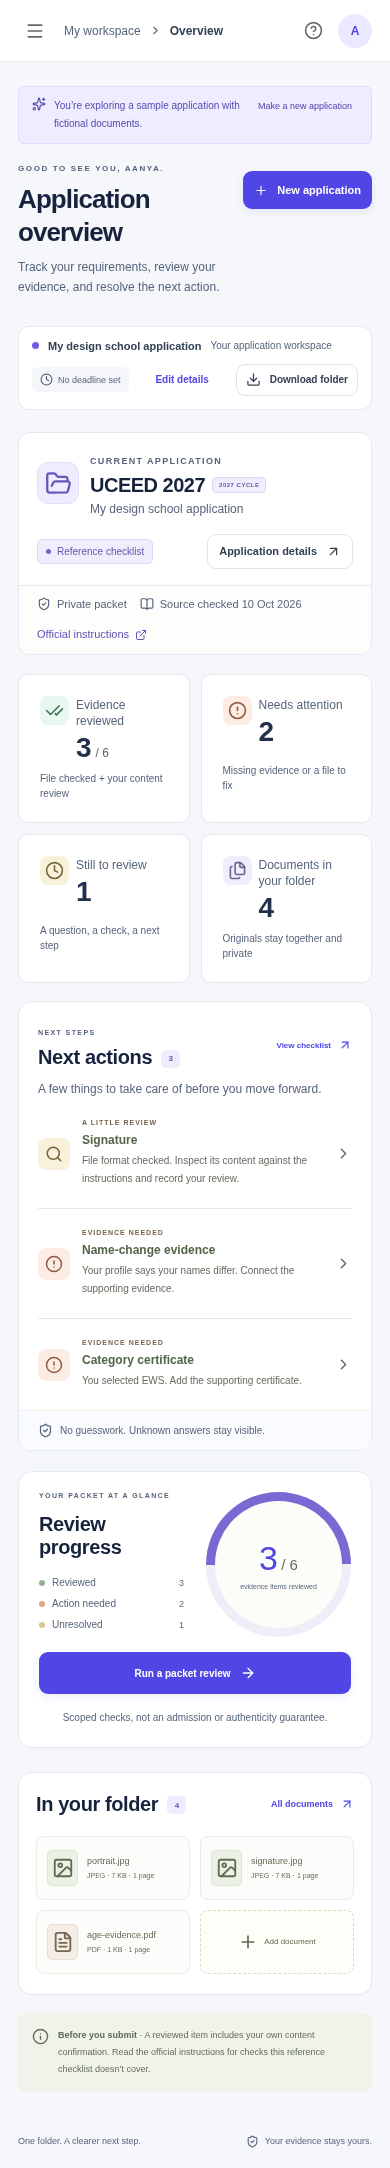
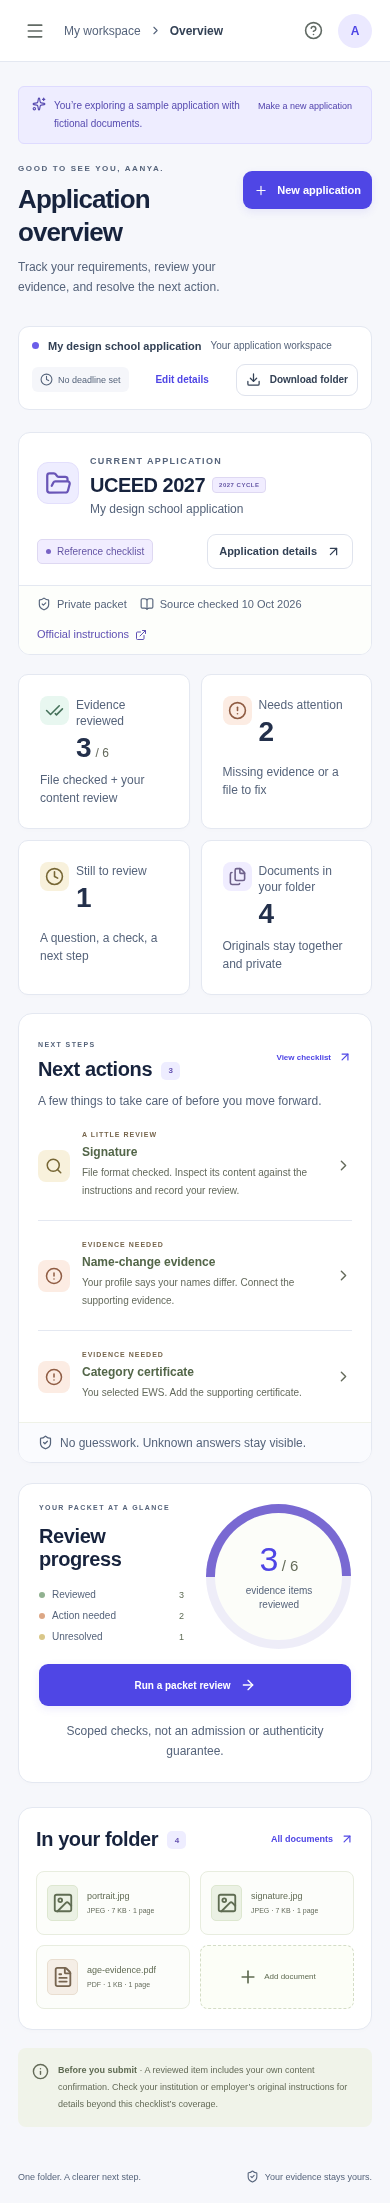
docs: publish local product workflows verification and refreshed previews

diff --git a/docs/engineering/RUNBOOK.md b/docs/engineering/RUNBOOK.md
@@ -5,20 +5,38 @@ Requires Node.js 22.12 or newer. Verified locally with Node 22.22.0. The lockfil
 ## First run
 
 1. Run `npm ci` in the repository root.
-2. Optionally copy `.env.example` to `.env` and set the desired local ports, origin and private data path.
+2. Optionally copy `.env.example` to `.env` for the backend origin and private data path. Keep the default ports, or use the shared shell variables below.
 3. Run `npm run dev`.
 4. Open `http://127.0.0.1:5173`.
 5. Choose **Explore the demo** for an isolated fictional workspace, or create an adults-only development account.
 
-The web client listens on port 5173 and proxies API requests to port 3001. If you change the API port, update the Vite proxy to match. The server binds loopback by default. It does not publish a website to the internet.
+The web client listens on port 5173 and proxies API requests to port 3001. To customize development ports, set `WEB_PORT`, `PORT` and the matching `APP_ORIGIN` in the shell so both processes receive them:
+
+```sh
+PORT=3010 WEB_PORT=5183 APP_ORIGIN=http://127.0.0.1:5183 npm run dev
+```
+
+`server/index.ts` loads `.env` for the backend; shared dev-port overrides must be shell variables. The server binds loopback by default. It does not publish a website to the internet.
 
 ## Review a packet
 
-Create a packet and confirm the application details. Unknown answers remain unresolved. Upload PDFs or JPEGs, wait for inspection, then open a requirement and connect a document and page range. Inspect the original, record your own review note, and save the evidence link. Run a review to save a dated snapshot.
+Choose **New application**, select a college, scholarship, job or custom starter, and add its name, destination, deadline and original instructions. The starter checklist is editable before creation. Importing instructions creates one editable item per nonempty line; it does not infer conditional meanings. Confirm required/optional items, formats, conditions and any size or literal phrase checks against your actual instructions. Use **Edit checklist** to revise it later.
 
-The report distinguishes supported technical checks and applicant content confirmation. Changing a profile, adding a file or changing an evidence link makes an earlier report historical. Running a fresh review creates a new snapshot. A retry with unchanged inputs reuses the existing run.
+The separate UCEED 2027 reference option has conditional profile questions. Confirm those answers or leave them unknown when you need to check them. Unknown answers remain unresolved.
+
+Upload PDFs or JPEGs, wait for inspection, then open a requirement and connect a document and page range. The PDF viewer renders the actual selected original page with pagination and zoom. Inspect it, record your own review note, and save the evidence link. Run a review to save a dated snapshot. Uploading first from an empty document section opens setup and attaches those selected files to the newly created application.
+
+Batch intake reports each file separately. A rejected file does not stop later files from being attempted or remove accepted files. Duplicate bytes return the existing document without a second copy. Retry temporary failures or choose a supported replacement. Intake acceptance and successful inspection are separate states.
+
+The report distinguishes supported technical checks and applicant content confirmation. Changing a profile, file, evidence link, checklist or application details makes an earlier report historical. Changing custom requirements or original instruction notes resets prior content confirmations. A newer evaluator version also marks older snapshots historical. Running a fresh review creates a new snapshot. A retry with unchanged revisions, checklist version and evaluator version reuses the existing run.
 
 Export JSON for machine-readable provenance, or use **Print / PDF** for a printable report. The printable report includes source, version and coverage limits. Exports are private authenticated responses.
+
+**Download folder** exports a ZIP containing exact inspected originals, the current checklist/review manifest and coverage notes. Processing or failed files are excluded and identified in the manifest. The ZIP is a private export of originals; it does not transform files for a specific institution’s upload portal.
+
+Use **Applications** to search, sort, open, archive or restore your applications. Archive preserves documents and history; deletion removes them. Dates are tracked as local calendar deadlines without email or push notifications. Application URLs preserve your current application and section across refresh and browser navigation; server ownership checks still apply.
+
+In **Settings & privacy**, update your display name, change your password using the current password, or sign out other sessions. Password changes revoke previous sessions and rotate the current session/CSRF token. Email verification and password-reset email delivery are not included.
 
 ## Document limits
 
@@ -50,6 +68,8 @@ The development release has no automated backups. SQLite WAL free pages and exte
 
 To serve the built client and API together locally, run `npm run build`, set `APP_ORIGIN=http://127.0.0.1:3001`, then run `npm start` and open that URL. For a custom port, use a matching origin. Node environment variables override values in `.env`.
 
+Browser checks start their own API on port 3102 and web client on port 5180, with a separate temporary data directory. Leave these two ports available; they never reuse the personal server on 3001/5173. Failed checks retain local traces in ignored `test-results/`; CI uploads them for seven days. Fixture account cleanup never targets a personal account.
+
 ## Failure recovery
 
 A server restart requeues interrupted inspections. Failed inspection is visible in the document view and can be retried. An upload retry with identical bytes returns the existing document. An evaluation retry with unchanged input revisions returns the existing run. Stale mutations return a conflict and require current packet state.
@@ -58,4 +78,4 @@ Do not delete the data directory while a server is running. Stop the server befo
 
 ## Current boundaries
 
-The UCEED 2027 reference checklist is not a reviewed complete official pack. No automated authenticity, eligibility, category entitlement, legal identity, portrait-quality or certificate-validity decision exists. Custom instruction ingestion, OCR, managed authentication recovery, payments, institutional access, native apps and all public launch gates remain tracked work.
+The UCEED 2027 reference checklist is not a reviewed complete official pack. Editable starters and mechanical instruction-line import are implemented; automatic semantic rule interpretation is not. No automated authenticity, eligibility, category entitlement, legal identity, portrait-quality or certificate-validity decision exists. OCR, managed authentication recovery, payments, institutional access, native apps and all public launch gates remain tracked work. Hosting is deliberately deferred while the requested runtime is localhost.

diff --git a/README.md b/README.md
@@ -1,8 +1,8 @@
 # JKY-Folder
 
-**Your next chapter. All in one folder.**
+**Application instructions. Supporting documents. A clear next step.**
 
-A working development MVP for reviewing application documents against a scoped requirement checklist. Bring original files together, confirm which requirements apply, link evidence to pages, and save a clear report of missing documents and unresolved checks.
+A working local application for preparing college, scholarship and job document folders. Create an application from an editable starter or your actual instructions, bring original files together, connect evidence to pages, and save a report of missing documents and unresolved checks.
 
 ![JKY-Folder workspace with fictional demo evidence](docs/engineering/screenshots/workspace.png)
 
@@ -19,18 +19,22 @@ Open **http://127.0.0.1:5173** and choose **Explore the demo**. The demo has fic
 
 ## What works
 
-- Account registration, sign-in, private sessions, CSRF protection and account deletion.
-- Separate application packets with persisted profiles and explicit unknown answers.
-- A versioned UCEED 2027 reference checklist with conditional requirements.
-- Private PDF/JPEG uploads, bounded asynchronous inspection, retries and duplicate detection.
-- PDF page-text extraction and original-document downloads after inspection.
+- Account registration, sign-in, display-name updates, password changes, session revocation and account deletion.
+- A redesigned responsive workspace with useful first-use guidance and distinct checklist, document and report sections.
+- An application portfolio with real progress counts, search, sorting, deadlines, archive and restore.
+- College, scholarship, job and custom checklist starters; instruction-line import and editable requirements.
+- Optional items, profile conditions, file formats, custom size limits and literal text checks on linked PDF pages.
+- A versioned UCEED 2027 reference checklist with explicit unknown profile answers.
+- Private PDF/JPEG intake with per-file batch results, bounded asynchronous inspection, retries and duplicate detection.
+- Actual PDF page previews with pagination and zoom, page-text extraction, JPEG previews and private original downloads.
 - Requirement-to-document/page evidence links and clearly labelled personal review notes.
 - Conservative technical checks, missing evidence, unknown applicability and review-needed states.
-- Versioned review snapshots, stale-report notices, JSON exports and printable reports.
-- Responsive desktop/mobile workspace, search, filters, timeline, help and privacy controls.
+- Versioned review snapshots, stale-report notices, JSON exports, printable reports and private ZIP folder downloads.
+- Application URLs that retain the selected section on refresh and support browser Back/Forward.
+- Search across requirements and extracted document text, filters, real account activity, help and privacy controls.
 - Deletion of active documents, extracted pages, links, jobs, reports and account sessions.
 
-**A reviewed item is not a guarantee of authenticity, eligibility or institutional acceptance.** The source pack is a limited reference, not an independently approved complete official checklist. Scanned PDFs require manual review; OCR and automatic certificate judgments are not implemented.
+**A reviewed item is not a guarantee of authenticity, eligibility or institutional acceptance.** Starters are editable organizing suggestions, not official application rules. Instruction import creates one item per nonempty line; you confirm its meaning and conditions. The UCEED pack is a limited reference, not an independently approved complete official checklist. Scanned PDFs require manual review; OCR and automatic certificate judgments are not implemented.
 
 ## Verify the application
 
@@ -40,9 +44,9 @@ npx playwright install chromium
 npm run test:e2e
 ```
 
-The milestone has **24 passing domain/API/worker tests** and **eight passing desktop/mobile browser tests**. Browser checks cover real PDF upload/extraction, evidence review, report export, stale reports, deletion, keyboard focus and automated accessibility across core screens and dialogs. The dependency audit reported no known vulnerabilities at this review; it is a dated check, not a permanent assurance.
+The local verification passed **39 domain/API/worker tests** and **18 desktop/mobile browser checks**, plus TypeScript and the client build. It covers real PDF upload/extraction/rendering, mixed upload batches, duplicates, custom instructions and checklist changes, private ZIP bytes, account password/session controls, application navigation, evidence review, historical reports, deletion, keyboard focus and automated accessibility across core screens and dialogs. Browser tests use isolated ports and disposable synthetic accounts, independent of your personal local data. The dependency audit reported no known vulnerabilities at this review; it is a dated check, not a permanent assurance.
 
-GitHub Actions runs the checks on pushes and pull requests. Application source can be formatted with `npm run format`.
+GitHub Actions runs the checks on pushes and pull requests and retains browser failure traces for seven days. Application source can be formatted with `npm run format`.
 
 ## Architecture and boundaries
 
@@ -54,7 +58,7 @@ This implementation has not been publicly deployed or certified as ready for rea
 
 ## Preview and startup plan
 
-[Welcome screen](docs/engineering/screenshots/welcome.png) · [Mobile workspace](docs/engineering/screenshots/mobile.png) · [Original logo concept](docs/brand/jky-folder-logo-concept.png)
+[First-use workspace](docs/engineering/screenshots/welcome.png) · [Application setup](docs/engineering/screenshots/application-setup.png) · [Application portfolio](docs/engineering/screenshots/applications.png) · [PDF preview](docs/engineering/screenshots/pdf-preview.png) · [Mobile workspace](docs/engineering/screenshots/mobile.png) · [Original logo concept](docs/brand/jky-folder-logo-concept.png)
 
 The original **29,354-line startup implementation plan** remains preserved as a dated specification across the [master plan](IMPLEMENTATION_PLAN.md) and six detailed volumes. It contains 96 workstreams, 576 deliverables and 2,304 acceptance situations. Implementation references are mapped in the release-gate document; business and expansion deliverables are not marked complete by the existence of code.
 

diff --git a/docs/engineering/IMPLEMENTATION_STATUS.md b/docs/engineering/IMPLEMENTATION_STATUS.md
@@ -27,7 +27,7 @@ The 2027 official registration page was checked on 10 October 2026. Its referenc
 
 Market interviews, paid demand, legal review, production TLS/hosting, independently approved current packs, supplier contracts, payment processing, guardian flows, penetration review and the held-out launch benchmark require real evidence. They remain open startup gates. Real customer documents must not be used to test this development release.
 
-## Delivered development milestone
+## First delivered development milestone
 
 The six-stage implementation now includes a working account and packet API, a versioned reference pack and three-valued applicability, private intake and real PDF/JPEG inspection, page-level evidence assignment, applicant review notes, versioned reports and deletion. The frontend exposes those capabilities through welcome, overview, checklist, document, report, activity, help and privacy views.
 
@@ -36,3 +36,23 @@ Verification: 24 domain/API/actual-worker tests and eight desktop/mobile browser
 Final validation caught a hidden-storage-path defect in original downloads. The API fixtures now use a `.data` directory, verify every demo original's MIME and byte length, and deny anonymous and cross-account reads. The browser journey also verifies that the signature preview decodes and rejects server errors. Originals are served by a database-owned object key under an explicit private root; no private directory is mounted as a public asset.
 
 The complete startup remains subject to the [open release gates](RELEASE_GATES.md). Implemented references in that document explicitly mean partial workstream fulfillment. The historical plan is preserved without retroactively marking its business research or public launch stages complete.
+
+## Workspace and workflow revision
+
+The repeated generic empty screens were replaced with a first-use workspace and distinct document, checklist and report onboarding. The visual system now uses a light navigation rail, indigo accents, clearer typography, responsive layouts and an original folder/check vector mark. Counters reflect actual stored data; starter examples and demo documents are labelled.
+
+Applications can begin with college, scholarship, job or custom starters, as well as the separate UCEED reference option. The three-step setup accepts destination, calendar deadline, source URL and original instructions, then allows the requirement list to be edited before creation. Mechanical import maps each nonempty instruction line to an editable item; automatic semantic interpretation is not claimed.
+
+Custom checklist editing persists required/optional items, supported file formats, simple conditional profile rules, size limits and expected literal phrases. Phrase checks use only linked PDF pages and keep absent extraction unresolved. Changes to custom checklist content, source or original instruction notes invalidate previous content confirmations. Historical report exports retain their saved checklist title/source. Older evaluator versions remain historical; retries reuse only matching input, checklist and evaluator versions.
+
+The application portfolio now has search, sort, actual current review counts, deadlines, archive and restore. Archive preserves evidence and history. Private ZIP downloads contain exact inspected original bytes, a manifest and coverage notes; excluded files are identified. Each application has a URL that restores its section and selection after refresh and supports Back/Forward, with server ownership enforced independently.
+
+The browser renders actual PDF originals with page controls and zoom; page selection connects to evidence ranges. Original-document previews and extraction remain distinct. Batch intake attempts each file independently, keeps valid uploads around a rejected file, identifies duplicate bytes, and offers retry for failed intake. Inspection is a separate asynchronous state.
+
+Display-name changes, current-password-verified password changes, session rotation and sign-out of other sessions work through account settings. The activity view retrieves real private account events with application/document/account filters. Existing document, application and account deletion remain operational.
+
+Current local verification passed **39 domain/API/actual-worker tests and 18 desktop/mobile browser checks**, TypeScript and a production client build. Browser coverage includes fresh accounts with no packets, custom checklist setup/editing, archive/restore, account settings, actual PDF page rendering, mixed valid/invalid batches, duplicates, browser history, password changes and new-session sign-in. Synthetic tests use separate temporary data and ports, preserving the personal local workspace. Automated accessibility checks cover scoped screens, dialogs and upload outcomes; this remains internal assurance rather than certification.
+
+The frontend milestone initially exposed a CI-only mobile test timeout: the test attempted navigation before the authenticated workspace had mounted after reload. The navigation helper now explicitly waits for the workspace. CI retains failure traces/screenshots for seven days to make future failures reviewable.
+
+Hosting is deferred at the owner’s request. The implemented runtime is localhost, with no public deployment, payments, managed recovery emails, OCR, institutional rule-pack certification or claim that the business launch gates have been completed.

diff --git a/docs/engineering/RELEASE_GATES.md b/docs/engineering/RELEASE_GATES.md
@@ -4,10 +4,10 @@
 
 | Plan area | Code / evidence | Scope |
 | --- | --- | --- |
-| JF-01-07 to JF-01-12 | Account entry, profile questions, responsive packet workspace, evidence dialogs and browser checks | Development usability foundation |
-| JF-02-02 to JF-02-05 | Versioned reference pack, three-valued predicates and deterministic checks | One scoped application reference |
+| JF-01-07 to JF-01-12 | Account entry/settings, responsive workspace, first-use flows, application portfolio, deadlines, evidence dialogs and browser checks | Working local usability foundation |
+| JF-02-02 to JF-02-05 | Versioned reference pack, editable starters, instruction-line drafts, three-valued predicates and deterministic checks | One scoped reference plus user-defined checklists |
 | JF-02-06 to JF-02-09 | Private intake, separate inspection worker, PDF page extraction and evidence links | PDF/JPEG, bounded local processing |
-| JF-02-12 to JF-02-14 | Immutable evaluation runs, applicant review notes and snapshot exports | User confirmation is labelled |
+| JF-02-12 to JF-02-14 | Immutable evaluation runs, applicant review notes, private ZIP/JSON exports and evaluator version provenance | User confirmation is labelled |
 | JF-03-02 to JF-03-08 | Accounts, sessions, ownership, SQLite, private originals, durable job records and API contracts | Local single-instance architecture |
 | JF-03-09 to JF-03-11 | Live checklist states, revision conflicts, evidence retrieval and report history | Explicit stale state |
 | JF-04-02, JF-04-03, JF-04-07 | Adversarial intake, cross-owner denials, deletion and retry tests | Internal development assurance |
@@ -32,12 +32,12 @@ References indicate partial implementation of the corresponding workstream, not 
 
 ## Intentionally deferred features
 
-Custom instruction draft authoring, OCR, AI interpretation, external authenticity verification, transformed upload preparation, institution permissions, partner integrations, automated official-portal submission, scholarship/job packs and international expansion are not silently simulated. They require their own acceptance evidence and phase gates.
+Custom instruction drafts and editable college/scholarship/job starters now work locally. They are not reviewed official rule packs. OCR, automatic semantic/AI interpretation, external authenticity verification, transformed upload preparation, institution permissions, partner integrations, automated official-portal submission, independently reviewed scholarship/job packs and international expansion remain deferred. They require their own acceptance evidence and phase gates.
 
 ## Architecture decisions made
 
 SQLite and local private objects replace the plan’s provisional PostgreSQL/managed-storage stack for a reproducible single-instance development release. A durable document-job table allows restart recovery. Processing uses a child process with time and heap budgets, but no claim of a complete security sandbox. These choices need a production adapter and review before externally processing sensitive documents.
 
-A content-review confirmation can produce a scoped pass, with verification provenance set to `user`. It never becomes an automated issuer or content-authenticity result. The report always carries the reference-pack limits.
+A content-review confirmation can produce a scoped pass, with verification provenance set to `user`. It never becomes an automated issuer or content-authenticity result. Reports carry the selected checklist’s limits. Expected-phrase checks operate only on extracted text in linked pages; missing text remains review-needed, including scanned pages. Checklist or original instruction changes invalidate prior content confirmations.
 
 When deleting a document, saved runs for that packet are purged instead of retaining sensitive evidence references in historical exports. Historical runs remain available for ordinary profile and linking revisions, but never survive an evidence deletion merely to preserve history.
